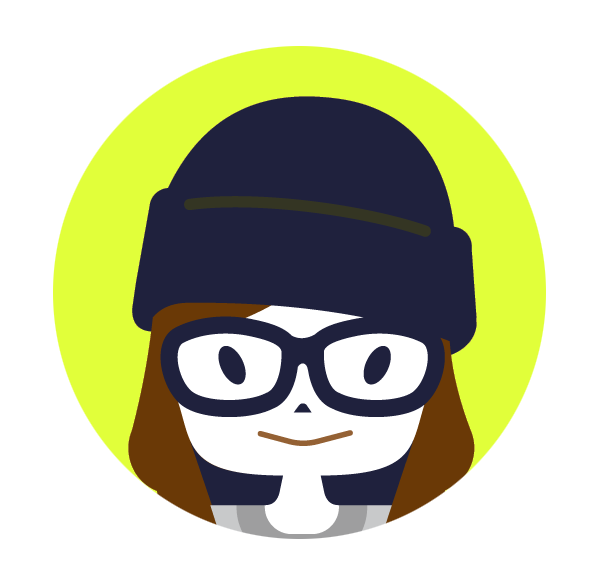
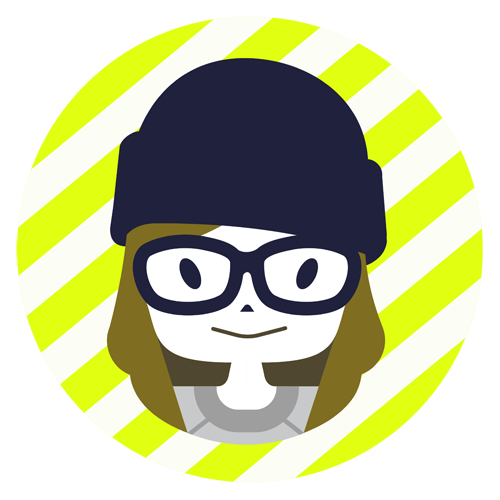
Add background image and change some images

diff --git a/Style.css b/Style.css
@@ -5,13 +5,16 @@ a:active { color: #ff8000; }
 
 
 .body{
-  background-color: #3395C9;
+  background-color: #838d9f;
+  background-image: url("background_image.jpg");
+  background-position: center center;
+  background-repeat: no-repeat;
+  background-attachment:fixed;
+  background-size: cover;
   display: flex;
   align-items: center;
   justify-content: center;
-  font-family:'Khula',
- 'Hiragino Kaku Gothic ProN', 'ヒラギノ角ゴ ProN W3',
- Meiryo, メイリオ, sans-serif;
+  font-family:'Khula','Hiragino Kaku Gothic ProN', 'ヒラギノ角ゴ ProN W3',Meiryo, メイリオ, sans-serif;
 }
 
 .ContentsCard{
@@ -21,14 +24,20 @@ a:active { color: #ff8000; }
   padding: 30px;
   background-color: #FCFDF5;
   border-radius: 10px;
+  box-shadow:rgba(73, 74, 94, 0.65098) 0px 0px 31px -7px;
+  -webkit-box-shadow:rgba(73, 74, 94, 0.65098) 0px 0px 31px -7px;
+  -moz-box-shadow:rgba(73, 74, 94, 0.65098) 0px 0px 31px -7px;
 }
 
 
 .topAccentBorder{
-  border-top: solid 20px #E1FF3A;
+  border-top: solid 10px #E1FF3A;
   margin: 0px;
+  display: flex;
+  margin: auto;
   position: relative;
   top: -30px;
+  width: 230px;
 }
 
 .topTitle{
@@ -53,6 +62,8 @@ a:active { color: #ff8000; }
   justify-content: center;
   align-items: center;
   flex-direction: column;
+  border-radius: 4px;
+
 }
 
 .skillList .badge span {
@@ -117,19 +128,21 @@ a:active { color: #ff8000; }
 .caption{
   font-size: 12px;
   color: #777996;
+  letter-spacing: 0.15em;
+  position: relative;
+  top: -10px;
 }
 
-.bercode{
+.barcode{
   display: flex;
   margin: auto;
   margin-bottom: -30px;
-  width: 200px;
-  height: 20px;
+  width: 230px;
+  height: 10px;
 }
 
 h1{
   font-family: 'Podkova', serif;
-  margin-top: 20px;
   margin-bottom: 10px;
   color: #777996;
 }
@@ -146,6 +159,7 @@ li{
 
 p{
   margin-bottom: 20px;
+  color: #494A5E;
 }
 
 hr{
@@ -156,12 +170,15 @@ h3{
   font-family: 'Podkova', serif;
   font-size: 36px;
   margin-bottom: 20px;
+  color: #494A5E;
 }
 
 h5{
   font-family: 'Podkova', serif;
   font-size: 14px;
   color: #ACC145;
+  position:relative;
+  top:-5px;
 }
 
 a{
@@ -176,16 +193,23 @@ a:first-child{
 
 
 @media screen and (min-width: 0px) and (max-width: 375px) {
+
   h3{
     font-family: 'Podkova', serif;
     font-size: 30px;
     margin-bottom: 20px;
   }
 
+  .topAccentBorder{
+    position: relative;
+    top: 0px;
+    margin-bottom: 30px;
+  }
+
   .ContentsCard{
     width: 100%;
     padding: 0 20px;
-    margin: 10px;
+    margin: 20px;
   }
   .skillBadge{
     width: 75px;
@@ -200,7 +224,7 @@ a:first-child{
     margin: 0 -20px;
   }
 
-  .bercode{
-    margin-bottom: 0;
+  .barcode{
+    margin-bottom: 0px;
   }
 }

diff --git a/index.html b/index.html
@@ -10,14 +10,12 @@
     </head>
 <body class ="body">
     <div class="ContentsCard">
+      <div class="topAccentBorder"></div>
         <div class ="topTitle">
-          <div class= "emptyBox"></div>
-          <img src="photo.png" width= 60%>
-          <div class= "emptyBox"></div>
           <img src="KRM.png" width= 75%>
           <div class= "emptyBox"></div>
-          <div class="caption">Emotional Designer lives in Tokyo</div>
-          <div class= "emptyBox"></div>
+          <div class="caption">Hello! World.</div>
+          <img src="photo.png" width= 50%>
         </div>
         <div class= "impotant">
           <h1>Name</h1>
@@ -36,9 +34,10 @@
 
     <div class= "about">
         <div class="ticketBorder"></div>
+            <div class= "emptyBox"></div>
             <h1>About</h1>
             <p>
-            Hello! I am a UI designer and UX designer based in Tokyo.
+            I am a UI designer and UX designer based in Japan.
             I like traveling, collecting old Papers(tickets,posters,stamps) and airline design.
             The designer who I respect is Sanna Annukka, Mary Blair.
             </p>
@@ -65,6 +64,7 @@
               </li>
             </ul>
         </div>
+        <div class= "emptyBox"></div>
         <div class="summary">
             <h1>Summary</h1>
             <ul>
@@ -81,7 +81,7 @@
                   <span class="companyCaption">2004 - 2008</span>
                 </li>
             </ul>
-            </ul>
+            <div class= "emptyBox"></div>
             <h1>Qualifications</h1>
             <p>Certified Human Centered Design Professional, 2015</p>
         </div>
@@ -99,18 +99,18 @@
 
         <div class= "gate">
           <div class="ticketBorder"></div>
+          <div class= "emptyBox"></div>
           <h1>Gate</h1>
           <div class="bottomDecoration">
             <a class="linkImage" href="http://transitkix.tumblr.com/" target="_blank"><img src= "ico_tumblr.png" width="20%"></a>
             <a class="linkImage" href="https://twitter.com/transit_kix" target="_blank"><img src= "ico_twitter.png" width="20%"></a>
             <a class="linkImage" href="https://www.facebook.com/transit.kix" target="_blank"><img src= "ico_facebook.png"  width="20%"></a>
             <div class= "emptyBox"></div>
-            <div class="caption">KRM AIRLINE |  1092-42-4865890</div>
-            <div class= "emptyBox"></div>
+            <div class="caption">KRM AIRLINE <br> U1092-42-486F8L0</div>
           </div>
         </div>
     </div>
-    <img class="bercode" src="bercode.png">
+    <img class="barcode" src="barcode.png">
   </div>
 </body>
 </html>
